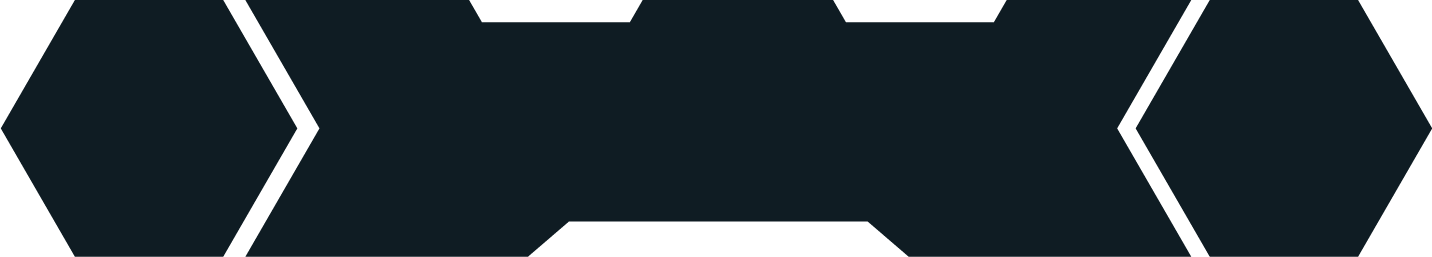
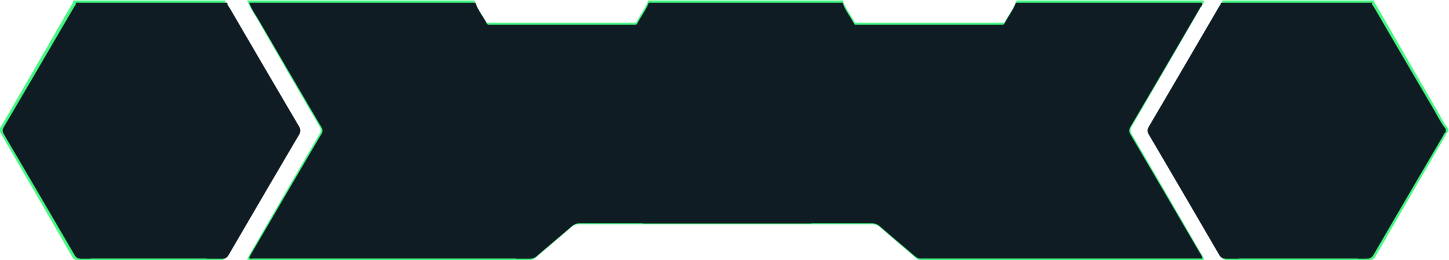
added img stickers

diff --git a/src/Components/Tournaments/TournamentsFetch.jsx b/src/Components/Tournaments/TournamentsFetch.jsx
@@ -2,6 +2,8 @@ import { Link } from 'react-router-dom';
 import tourPic from '../../assets/tourPic.png';
 import { IoIosArrowForward } from 'react-icons/io';
 import aboutBg from '../../assets/aboutusbg.png';
+import sticker1 from '../../assets/sticker1.png';
+import sticker2 from '../../assets/sticker2.png';
 
 const TournamentsFetch = () => {
   return (
@@ -35,8 +37,13 @@ const TournamentsFetch = () => {
         </h1>
       </div>
 
-      <div className='mt-20'>
-        <img src={tourPic} alt="" />
+      <div className="mt-20">
+        <div>
+          <img className='relative' src={tourPic} alt="" />
+
+          <img src={sticker1} alt="" />
+          <img src={sticker2} alt="" />
+        </div>
       </div>
     </>
   );
